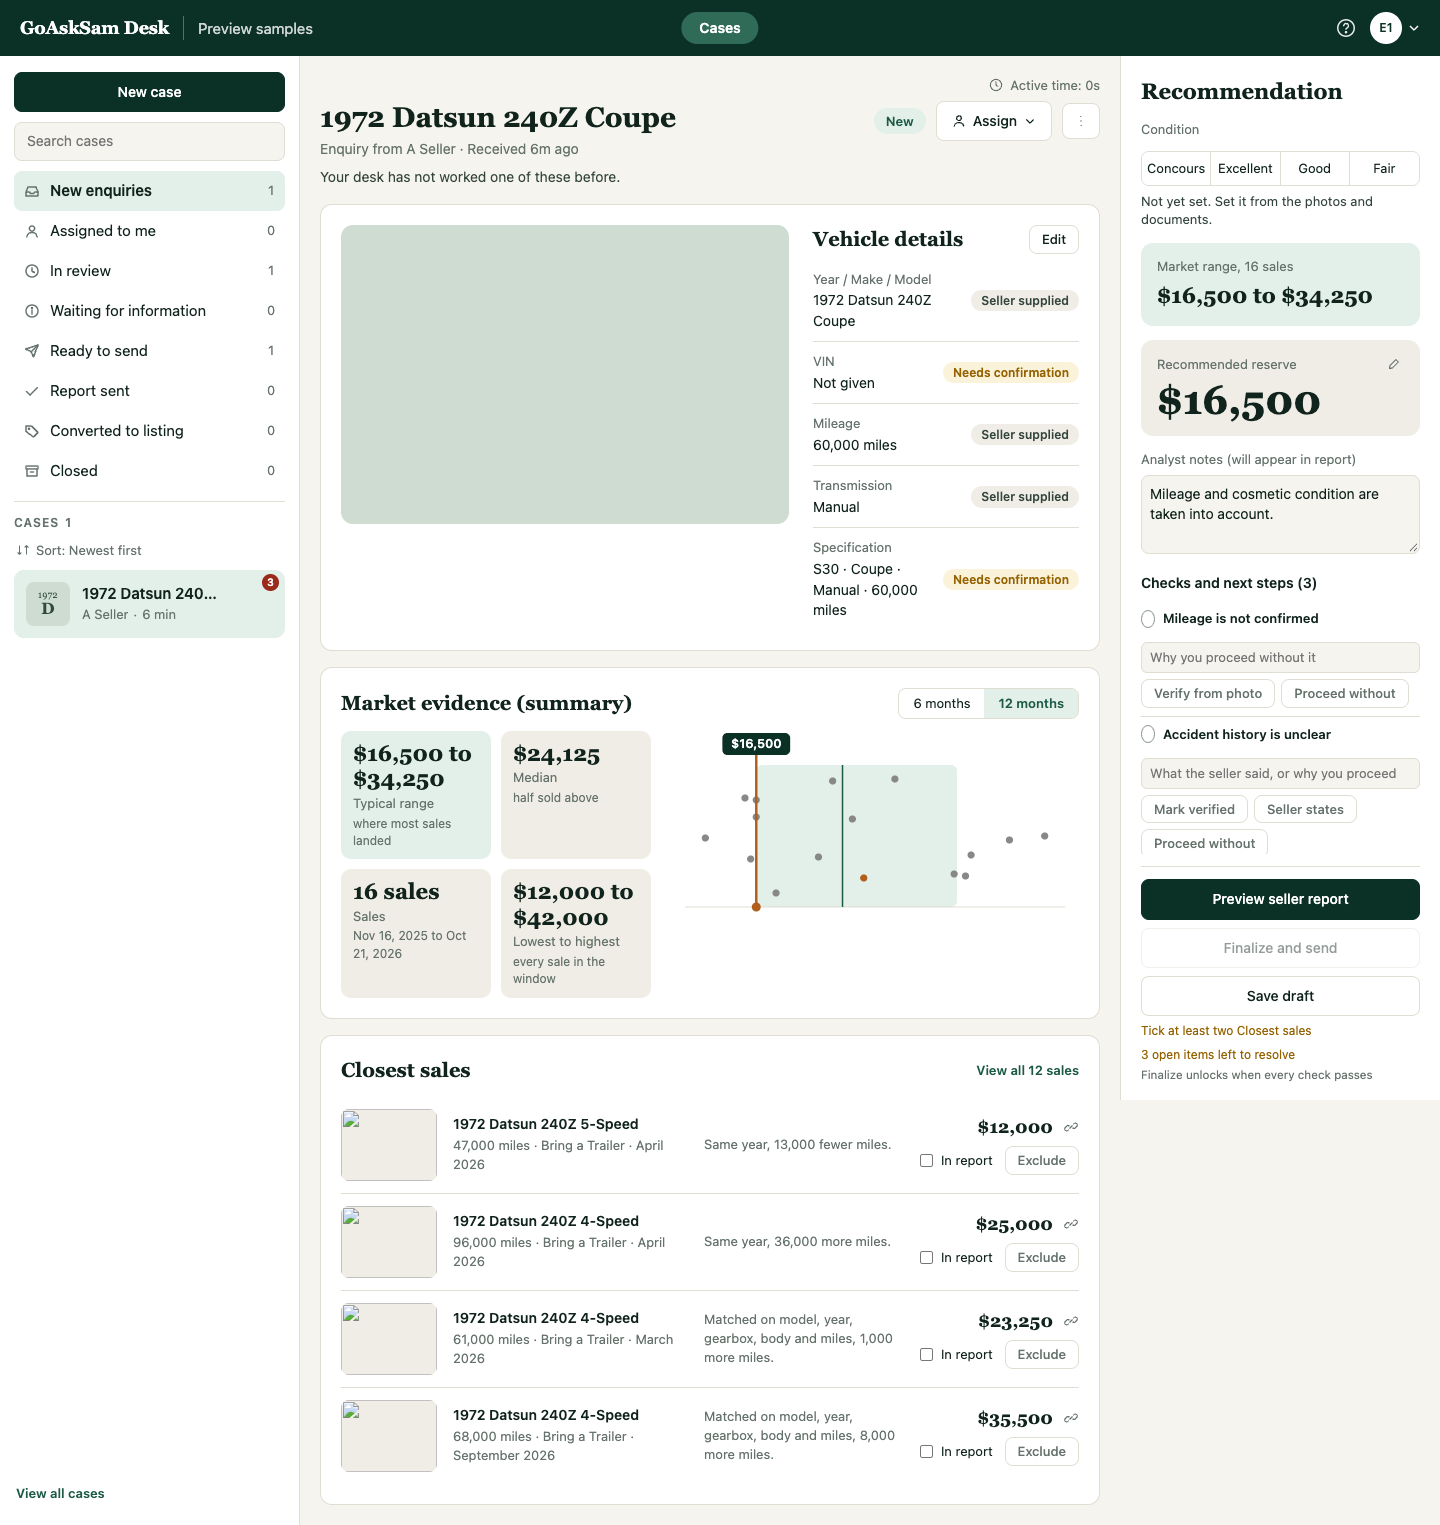
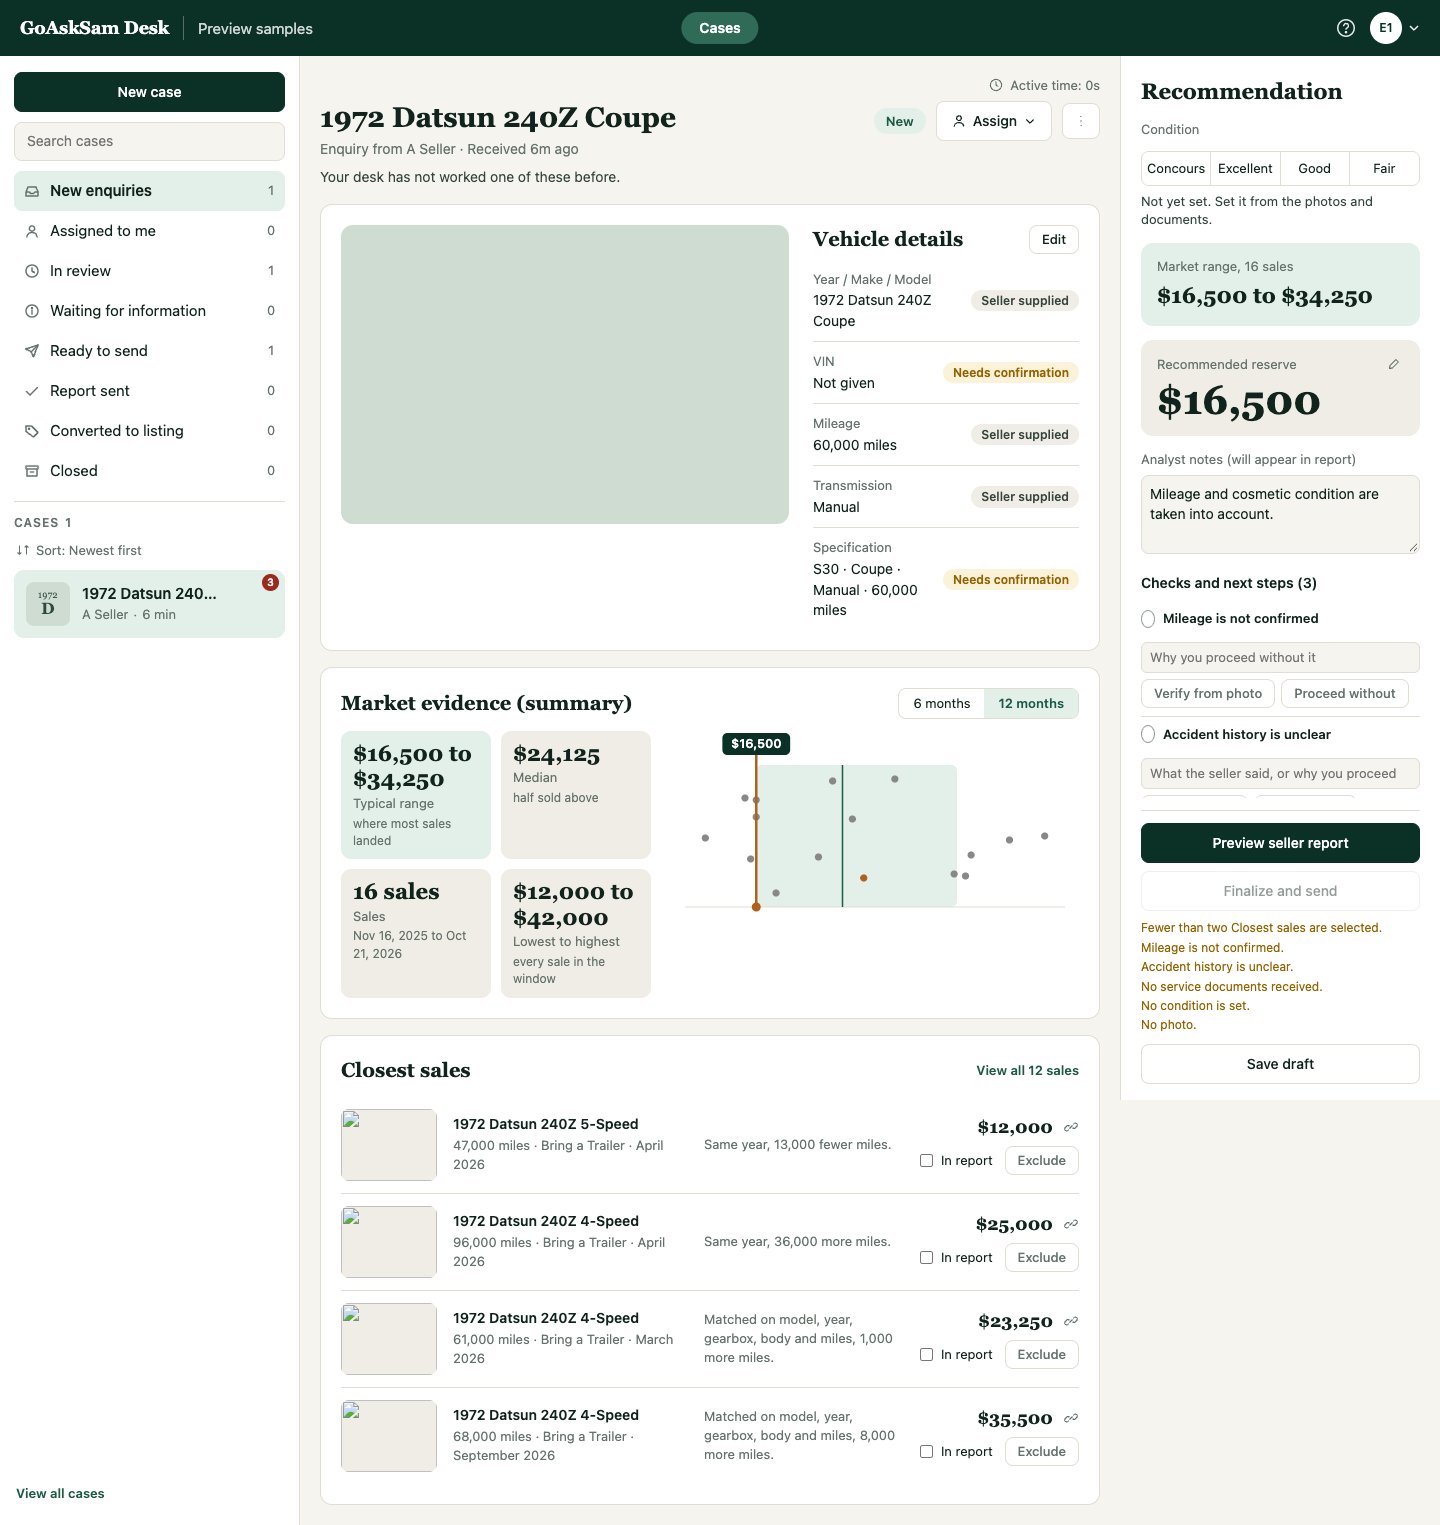
Desk2: the send posts confirm { to, subject } exactly as the preview returned it; Finalize's named blockers sit beside the disabled button (Lane S)

Changed region(s): [[0.7812, 0.5239, 1.0, 0.7089]]

diff --git a/lib/preview/deskV2Case.js b/lib/preview/deskV2Case.js
@@ -175,8 +175,9 @@ function needsP(){var b=$("rneeds");b.textContent="";var list=K.needs_review||[]
 function readyNow(){var R=C.readiness||{ready:false};return R.ready===true}
 function footP(){var b=$("rfoot");b.textContent="";var R=C.readiness||{ready:false,blockers:[]},fin=K.status==="finalized",lines=(R.checks&&R.checks.length?R.checks:K.checks)||[];
  var row=el("div",{class:"btns"});var pv=el("button",{type:"button",class:"btn pri",id:"bPrev",text:"Preview seller report"}),fz=el("button",{type:"button",class:"btn ob",id:"bFin",text:"Finalize and send"}),sd=el("button",{type:"button",class:"btn ob",id:"bDraft",text:"Save draft"});
- fz.disabled=!R.ready&&!fin;row.appendChild(pv);row.appendChild(fz);row.appendChild(sd);b.appendChild(row);
- var hint=fin?"":(R.hint||K.finalizeHint||"");if(!R.ready&&!fin){(lines.filter(function(l){return l.ok===false}).length?lines.filter(function(l){return l.ok===false}):[]).forEach(function(l){b.appendChild(el("p",{class:"fhint","data-key":l.key,text:l.line||""}))});if(hint)b.appendChild(el("small",{id:"finHint",text:hint}))}
+ fz.disabled=!R.ready&&!fin;var bl=(!R.ready&&!fin&&Array.isArray(R.blockers))?R.blockers.filter(function(x){return x&&x.why}):[];row.appendChild(pv);row.appendChild(fz);
+ if(bl.length)row.appendChild(el("div",{class:"fblk",id:"fblk"},bl.map(function(x){return el("p",{class:"fhint","data-blocker":x.key,text:x.why})})));row.appendChild(sd);b.appendChild(row);
+ var hint=fin?"":(R.hint||K.finalizeHint||"");if(!R.ready&&!fin&&!bl.length){(lines.filter(function(l){return l.ok===false}).length?lines.filter(function(l){return l.ok===false}):[]).forEach(function(l){b.appendChild(el("p",{class:"fhint","data-key":l.key,text:l.line||""}))});if(hint)b.appendChild(el("small",{id:"finHint",text:hint}))}
  if(fin)b.appendChild(el("p",{class:"fhint ok",id:"finBox",text:"Finalized as version "+K.version+". Locked."}));
  var h=K.handling||{},sent=(h.sentLines&&h.sentLines.length?h.sentLines:(h.sentLine?[h.sentLine]:[]));sent.forEach(function(t){b.appendChild(el("p",{class:"fhint ok","data-sent":"1",text:t}))});
  pv.addEventListener("click",preview);
@@ -197,12 +198,12 @@ function openSend(){if(sending)return;post({action:"case_send_preview",id:D.acti
   var x=dlg("sendDlg","Send to seller");x.d.appendChild(el("h3",{id:"sendT",text:"Send to seller"}));
   function ro(l,t,id){var f=el("div",{class:"fld"},[el("span",{class:"rl",text:l}),el("div",{class:"ro",id:id,text:t||""})]);x.d.appendChild(f)}
   ro("From",[r.fromName,r.from].filter(Boolean).join(" "),"sendFrom");
-  var to=el("input",{class:"txt",id:"sendTo",type:"email",autocomplete:"off","aria-label":"To",value:r.to||""});x.d.appendChild(el("div",{class:"fld"},[el("span",{class:"rl",text:"To"}),to]));
+  var cf=r.confirm||{to:r.to||"",subject:r.subject||""},to=el("input",{class:"txt",id:"sendTo",type:"email",autocomplete:"off","aria-label":"To (the address the send is confirmed to)",readonly:"",value:cf.to||""});x.d.appendChild(el("div",{class:"fld"},[el("span",{class:"rl",text:"To"}),to]));
   ro("Subject",r.subject,"sendSubject");ro("Message",r.message,"sendMsg");ro("Attachment",(r.attachmentName||"")+(r.version!=null?"  Version "+r.version:""),"sendAtt");
   var earlier=r.alreadySent||[];if(earlier.length){var ea=el("div",{class:"fld",id:"sendEarlierBox"},[el("span",{class:"rl",text:"Earlier sends"})]);earlier.forEach(function(e){ea.appendChild(el("div",{class:"ro",text:(e.to||"")+(e.version!=null?" Version "+e.version:"")}))});x.d.appendChild(ea)}
-  var err=el("p",{class:"msg",id:"sendErr",role:"alert",hidden:""}),go=el("button",{type:"button",class:"btn pri",id:"sendGo",text:"Send"}),no=el("button",{type:"button",class:"btn",id:"sendNo",text:"Cancel"});x.d.appendChild(err);x.d.appendChild(el("div",{class:"btns"},[go,no]));
+  var err=el("p",{class:"msg",id:"sendErr",role:"alert",hidden:""}),go=el("button",{type:"button",class:"btn pri",id:"sendGo",text:"Send"});if(!cf.to){go.disabled=true;err.textContent=r.toLine||"";err.hidden=!err.textContent}var no=el("button",{type:"button",class:"btn",id:"sendNo",text:"Cancel"});x.d.appendChild(err);x.d.appendChild(el("div",{class:"btns"},[go,no]));
   no.addEventListener("click",function(){x.scrim.remove()});to.focus();
-  go.addEventListener("click",function(){if(sending)return;sending=true;go.disabled=true;no.disabled=true;err.hidden=true;var body={action:"case_send",id:D.active,version:r.version!=null?r.version:K.version,to:to.value.trim()};if(earlier.length)body.again=true;
+  go.addEventListener("click",function(){if(sending)return;sending=true;go.disabled=true;no.disabled=true;err.hidden=true;var body={action:"case_send",id:D.active,version:r.version!=null?r.version:K.version,to:cf.to,confirm:{to:cf.to,subject:cf.subject}};if(earlier.length)body.again=true;
    post(body).then(function(q){if(q&&q.ok){return(q.case?Promise.resolve(q.case):post({action:"case_get",id:D.active}).then(function(g2){return g2&&g2.case})).then(function(k){if(k){K=k;C.kase=k}sending=false;x.scrim.remove();redraw()})}sending=false;go.disabled=false;no.disabled=false;err.textContent=(q&&q.why)||"";err.hidden=!err.textContent},function(){sending=false;go.disabled=false;no.disabled=false})})})}
 function rail(){var v=$("val");if(!v||v.firstChild)return;v.appendChild(el("h2",{class:"rtitle",id:"rtitle",text:"Recommendation"}));var rb=el("div",{class:"rb",id:"rb"});[["rcond",""],["rrange","box green"],["rres","box cream"],["rlad",""],["rwhy",""],["rneeds",""]].forEach(function(i){rb.appendChild(sect(i[0],i[1]))});v.appendChild(rb);v.appendChild(sect("rfoot","foot"))}
 function railP(){condP();rangeP();reserveP();ladderP();whyP();needsP();footP()}

diff --git a/lib/preview/deskV2Css.js b/lib/preview/deskV2Css.js
@@ -217,6 +217,8 @@ a{color:inherit;text-decoration:none}
 .btns{display:flex;flex-direction:column;gap:8px}
 .btns .btn{width:100%;justify-content:center}
 .fhint{margin-top:6px;font-size:12px;color:var(--warn)}
+.fblk{margin:-2px 0 2px}
+.fblk .fhint{margin-top:2px}
 .fhint.ok{color:var(--ok)}
 .rs.foot small{display:block;margin-top:4px;color:var(--mute)}
 .scrim{position:fixed;inset:0;background:rgba(10,20,16,.5);display:grid;place-items:center;z-index:20}
